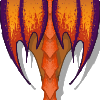
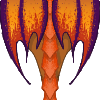
better display in game with actual textures, definitely done unless dinguerie :)

diff --git a/UI/Display.py b/UI/Display.py
@@ -1,7 +1,8 @@
 from Game import Game
 from State import State
 from .utils import fadeout, BACKGROUND, FONT, BUTTON, GREEN_APPLE, RED_APPLE, \
-    mouseClickedOnButton, getSnakeFacingDirection
+    mouseClickedOnButton, getSnakeFacingDirection, DRAGON_HEAD, DRAGON_WING, \
+    DRAGON_WING_ANGLE, DRAGON_BODY, DRAGON_BODY_ANGLE, DRAGON_TAIL
 
 import pygame
 
@@ -31,6 +32,92 @@ class Display:
     def initGame(self):
         self.game = Game(self.size)
 
+    def drawDragonHead(self, x, y):
+        if self.game.snake.size == 1:
+            if self.lastDirection == 'U':
+                angle = 0
+            elif self.lastDirection == 'D':
+                angle = 180
+            elif self.lastDirection == 'L':
+                angle = 90
+            else:  # Right
+                angle = 270
+
+        else:
+            nextCell = self.game.snake.pos[1]
+            if nextCell[0] == x and nextCell[1] == y - 1:  # Down
+                angle = 180
+            elif nextCell[0] == x and nextCell[1] == y + 1:  # Up
+                angle = 0
+            elif nextCell[0] == x - 1 and nextCell[1] == y:  # Left
+                angle = 270
+            else:  # Right
+                angle = 90
+        return pygame.transform.rotate(
+            pygame.transform.scale(DRAGON_HEAD,
+                                   [self.CELLSIZE, self.CELLSIZE]), angle)
+
+    def drawDragonBody(self, x, y):
+        bodyParts = {
+            0: DRAGON_WING,
+            1: DRAGON_WING_ANGLE,
+            2: DRAGON_BODY,
+            3: DRAGON_BODY_ANGLE
+        }
+
+        bodyNumber = self.game.snake.pos.index((x, y))
+        previousCell = self.game.snake.pos[bodyNumber - 1]
+        nextCell = self.game.snake.pos[bodyNumber + 1]\
+            if bodyNumber + 1 < self.game.snake.size else None
+        bodyPart = 0 if bodyNumber == 1 else 2
+        horizontalFlip = False
+        verticalFlip = False
+
+        if previousCell[0] == x and previousCell[1] == y - 1:  # Previous is up
+            angle = 0
+        elif previousCell[0] == x and previousCell[1] == y + 1:  # Down
+            angle = 180
+        elif previousCell[0] == x - 1 and previousCell[1] == y:  # Left
+            angle = 90
+        else:  # Right
+            angle = 270
+
+        if nextCell is None:
+            return pygame.transform.rotate(
+                pygame.transform.scale(DRAGON_TAIL,
+                                       [self.CELLSIZE, self.CELLSIZE]), angle)
+
+        if nextCell[0] == x and nextCell[1] == y - 1:  # Next is up
+            if angle != 180:
+                bodyPart += 1 if bodyPart % 2 == 0 else 0
+                verticalFlip = True if angle == 90 else False
+                angle = 270
+        elif nextCell[0] == x and nextCell[1] == y + 1:  # Down
+            if angle != 0:
+                bodyPart += 1 if bodyPart % 2 == 0 else 0
+                horizontalFlip = True if angle == 270 else False
+        elif nextCell[0] == x - 1 and nextCell[1] == y:  # Left
+            if angle != 270:
+                bodyPart += 1 if bodyPart % 2 == 0 else 0
+                verticalFlip = True if angle == 180 else False
+                angle = 0
+        else:  # Right
+            if angle != 90:
+                bodyPart += 1 if bodyPart % 2 == 0 else 0
+                horizontalFlip = True if angle != 180 else False
+
+        if bodyPart % 2 == 0:
+            return pygame.transform.rotate(
+                pygame.transform.scale(bodyParts[bodyPart],
+                                        [self.CELLSIZE, self.CELLSIZE]), angle)
+        else:
+            return pygame.transform.rotate(
+                    pygame.transform.flip(
+                        pygame.transform.scale(bodyParts[bodyPart],
+                                        [self.CELLSIZE, self.CELLSIZE]),
+                    horizontalFlip, verticalFlip),
+                angle)
+
     def drawMap(self):
         self.CELLSIZE = int(500 / self.size)
         redApple = pygame.transform.scale(RED_APPLE, [self.CELLSIZE, self.CELLSIZE])
@@ -42,14 +129,10 @@ class Display:
                     (self.CELLSIZE, self.CELLSIZE), pygame.SRCALPHA)
 
                 cell = self.game.board[y // self.CELLSIZE][x // self.CELLSIZE]
-                if cell in 'RG0':
-                    values = (150, 150, 150, TRANSPARENCY)
-                elif cell == 'H':
-                    values = (255, 255, 0, TRANSPARENCY)
-                elif cell == 'S':
-                    values = (0, 0, 255, TRANSPARENCY)
-                else:
+                if cell == 'W':
                     values = (0, 0, 0, TRANSPARENCY)
+                else:
+                    values = (150, 150, 150, TRANSPARENCY)
 
                 pygame.draw.rect(transparentCell, values,
                                  (0, 0, self.CELLSIZE, self.CELLSIZE))
@@ -61,6 +144,14 @@ class Display:
                 elif cell == 'G':
                     self.SCREEN.blit(greenApple, (x + WIDTH_OFFSET,
                                                    y + HEIGHT_OFFSET))
+                elif cell == 'H' and self.game.snake.size > 0:
+                    head = self.drawDragonHead(x // self.CELLSIZE, y // self.CELLSIZE)
+                    self.SCREEN.blit(head, (x + WIDTH_OFFSET,
+                                             y + HEIGHT_OFFSET))
+                elif cell == 'S':
+                    body = self.drawDragonBody(x // self.CELLSIZE, y // self.CELLSIZE)
+                    self.SCREEN.blit(body, (x + WIDTH_OFFSET,
+                                             y + HEIGHT_OFFSET))
                 pygame.draw.rect(self.SCREEN, (0, 0, 0),
                                  (x + WIDTH_OFFSET, y + HEIGHT_OFFSET,
                                      self.CELLSIZE, self.CELLSIZE), 1)
@@ -206,7 +297,7 @@ class Display:
                 if not self.stepbystep:
                     self.drawSpeedButton()
 
-                self.training.run(self.game, self.state, False)
+                self.lastDirection = self.training.run(self.game, self.state, False)
                 currentDuration += 1
 
                 pygame.display.flip()
@@ -290,6 +381,7 @@ class Display:
                         dontUpdateForXFrames -= 1 if dontUpdateForXFrames > 1\
                             else 0
                     currentDuration += 1
+                    self.lastDirection = direction
 
                 pygame.display.flip()
                 self.CLOCK.tick(30)

diff --git a/UI/utils.py b/UI/utils.py
@@ -24,6 +24,29 @@ RED_APPLE = pygame.image.load(os.path.join(
             os.path.dirname(__file__), "statics/pomme_rouge.png"))
 RED_APPLE = pygame.transform.scale(RED_APPLE, [50, 50])
 
+DRAGON_HEAD = pygame.image.load(os.path.join(
+            os.path.dirname(__file__), "statics/dragon/head.png"))
+DRAGON_HEAD = pygame.transform.scale(DRAGON_HEAD, [50, 50])
+
+DRAGON_WING = pygame.image.load(os.path.join(
+            os.path.dirname(__file__), "statics/dragon/wing.png"))
+DRAGON_WING = pygame.transform.scale(DRAGON_WING, [50, 50])
+
+DRAGON_WING_ANGLE = pygame.image.load(os.path.join(
+            os.path.dirname(__file__), "statics/dragon/wing_angle.png"))
+DRAGON_WING_ANGLE = pygame.transform.scale(DRAGON_WING_ANGLE, [50, 50])
+
+DRAGON_BODY = pygame.image.load(os.path.join(
+            os.path.dirname(__file__), "statics/dragon/body.png"))
+DRAGON_BODY = pygame.transform.scale(DRAGON_BODY, [50, 50])
+
+DRAGON_BODY_ANGLE = pygame.image.load(os.path.join(
+            os.path.dirname(__file__), "statics/dragon/body_angle.png"))
+DRAGON_BODY_ANGLE = pygame.transform.scale(DRAGON_BODY_ANGLE, [50, 50])
+
+DRAGON_TAIL = pygame.image.load(os.path.join(
+            os.path.dirname(__file__), "statics/dragon/tail.png"))
+DRAGON_TAIL = pygame.transform.scale(DRAGON_TAIL, [50, 50])
 
 def fadeout(screen):
     fade = pygame.Surface(WINDOW_SIZE)
